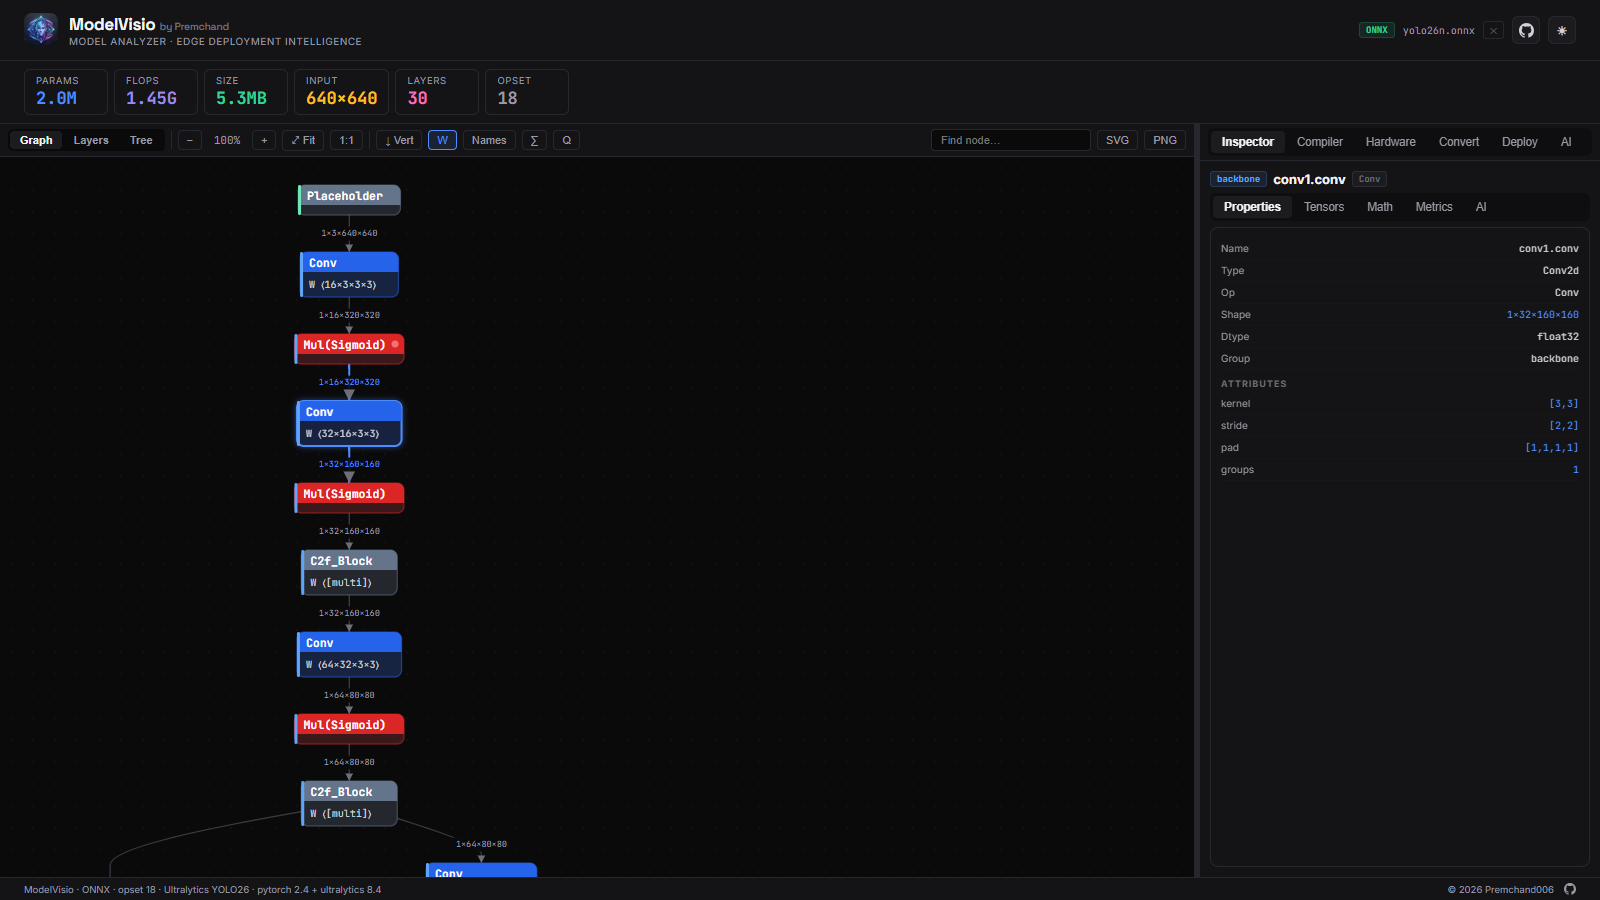
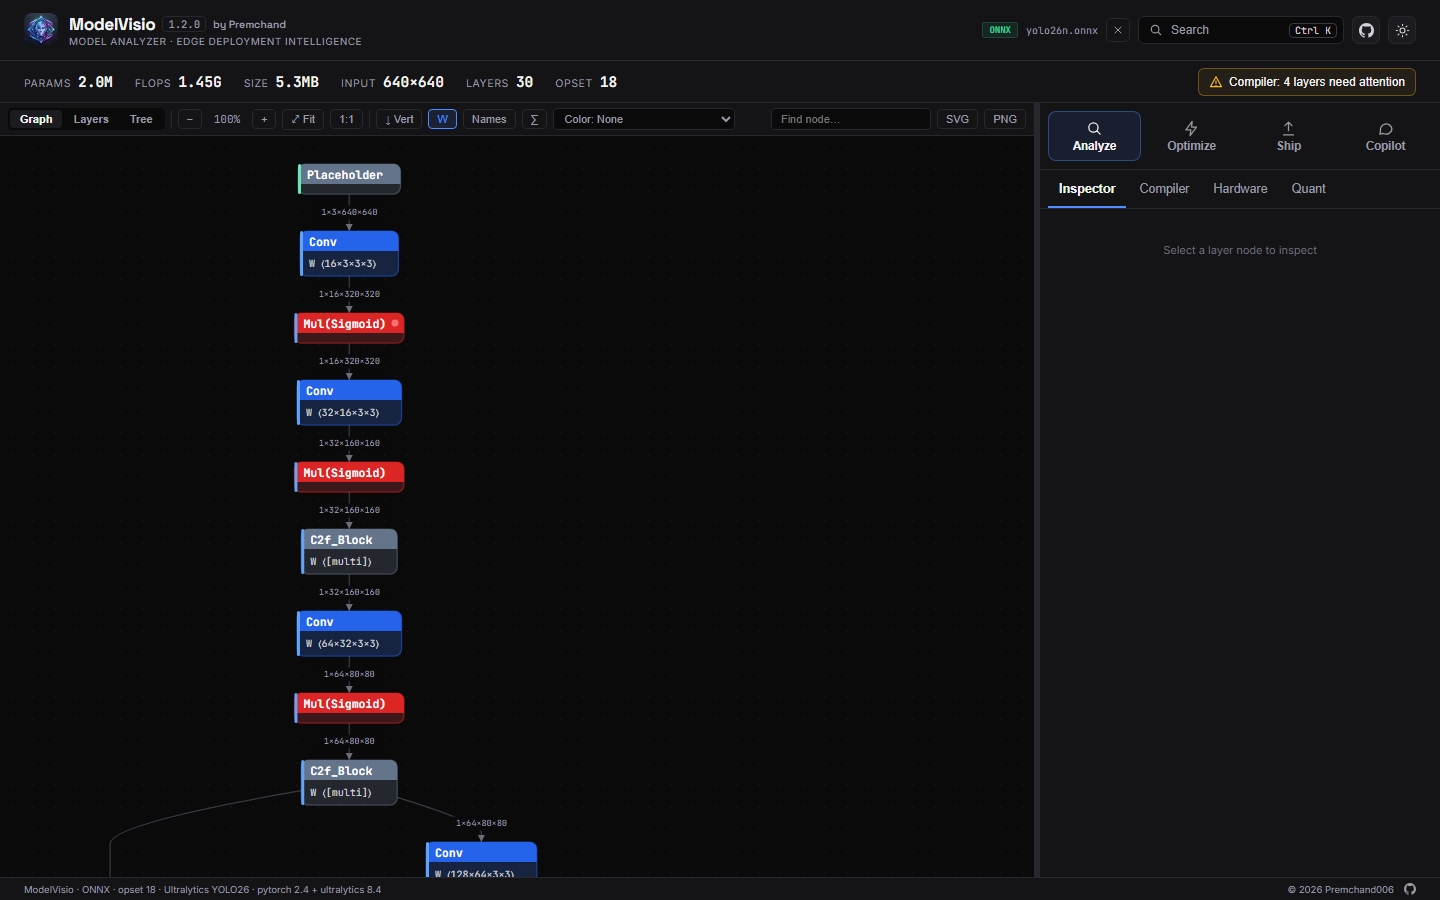
docs: changelog and screenshots for 1.2.0

diff --git a/CHANGELOG.md b/CHANGELOG.md
@@ -3,6 +3,24 @@
 Release notes for the ModelVisio website and desktop app. The VS Code extension has its own
 [CHANGELOG](apps/vscode/CHANGELOG.md).
 
+## [1.2.0] - unreleased
+
+### Changed
+
+- **Tools grouped by stage.** The 14 analysis tools no longer share one wrapping tab strip. The
+  sidebar has four stages (Analyze, Optimize, Ship, Copilot), each with its own tabs. On narrow
+  screens the stage switcher sits at the bottom of the screen.
+- **New landing page.** The headline and downloads sit beside the drop zone, with an overview of
+  the three stages. The full list of supported formats folds away under "and 29 more".
+- The stats strip is one compact row. When the compiler pre-flight finds problems, a button in it
+  opens the Compiler panel.
+- The header shows the app version.
+
+### Added
+
+- **Command palette** (Ctrl+K, or ⌘K on macOS, or the Search button): jump to any tool or layer,
+  open a model file, load the demo, switch theme or close the model.
+
 ## [1.1.0] - unreleased
 
 ### Added
@@ -43,5 +61,6 @@ First release: graph and inspector, compiler pre-flight, auto-fixes, hardware-fi
 accelerators, converters, deploy scripts and the Gemini copilot, on the web and as a desktop app
 for Windows, macOS and Linux.
 
+[1.2.0]: https://github.com/Premchand006/ModelVisio/compare/desktop-v1.0.0...main
 [1.1.0]: https://github.com/Premchand006/ModelVisio/compare/desktop-v1.0.0...main
 [1.0.0]: https://github.com/Premchand006/ModelVisio/releases/tag/desktop-v1.0.0

diff --git a/apps/vscode/CHANGELOG.md b/apps/vscode/CHANGELOG.md
@@ -35,6 +35,8 @@ follow [Semantic Versioning](https://semver.org/).
   on first use and verifies its SHA-256.
 - Compiler pre-flight reports rule-based findings for real models, not only the demo.
 - ONNX FLOPs no longer collapse when a model has no intermediate `value_info`.
+- The model editor's tools are grouped by stage (Analyze, Optimize, Ship, Copilot), and a
+  **Search** button in its header opens a command palette that jumps to any tool or layer.
 
 ## [0.1.0]
 
